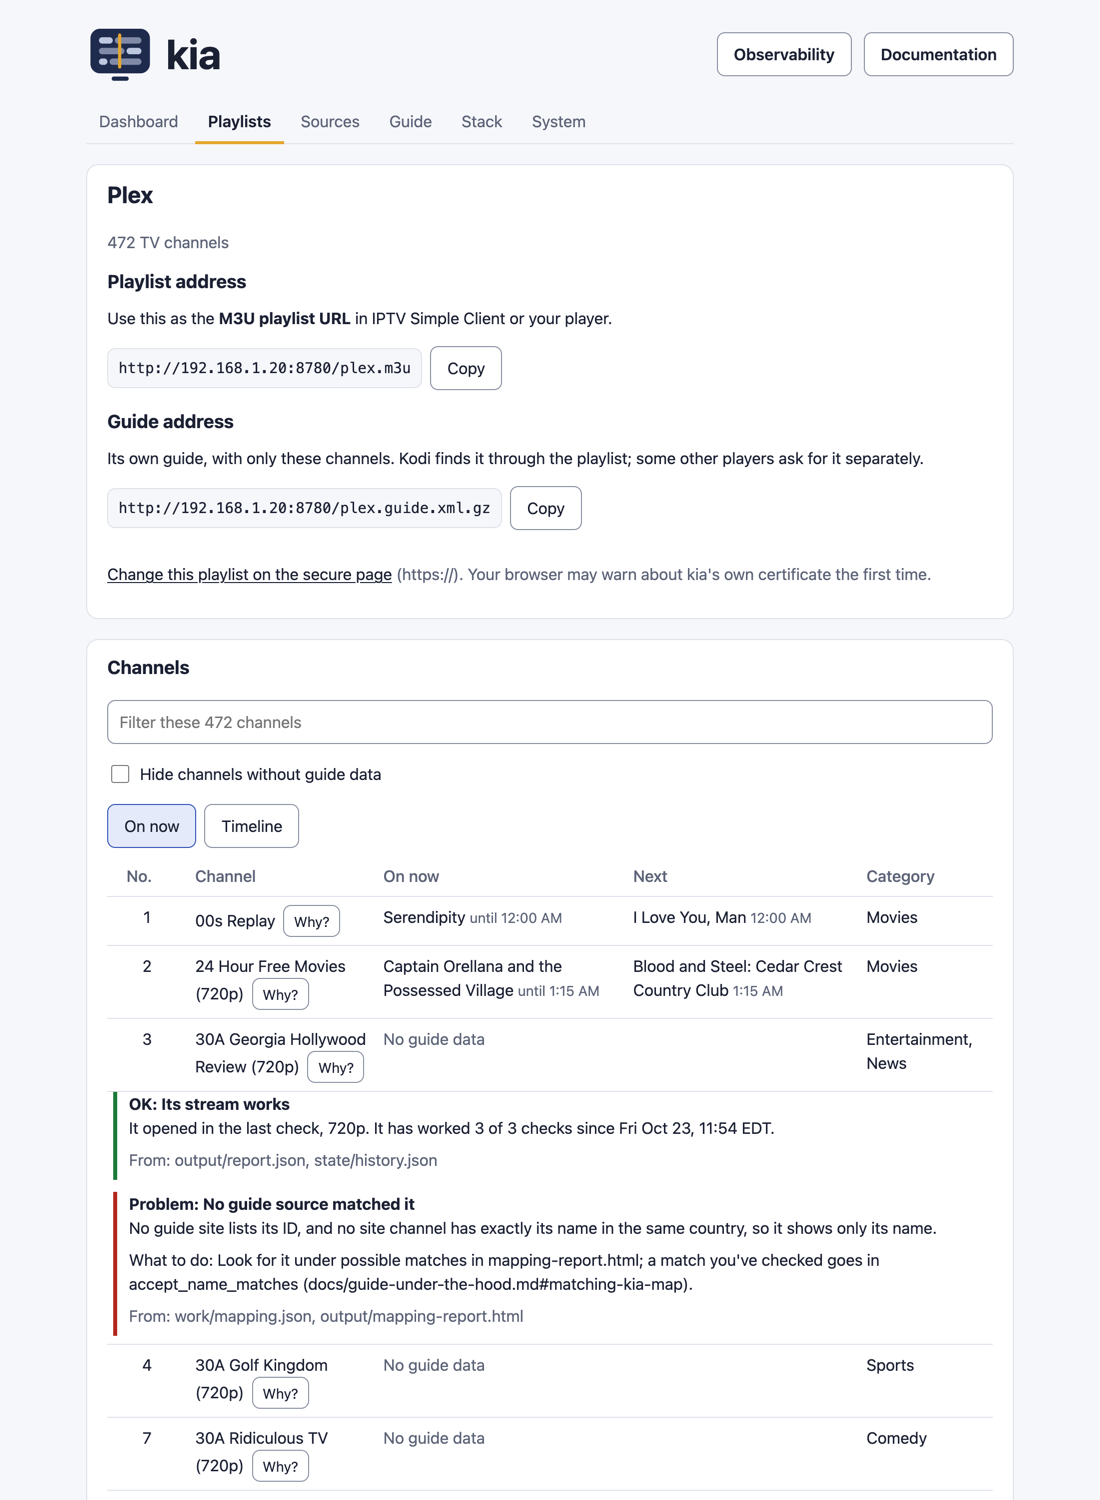
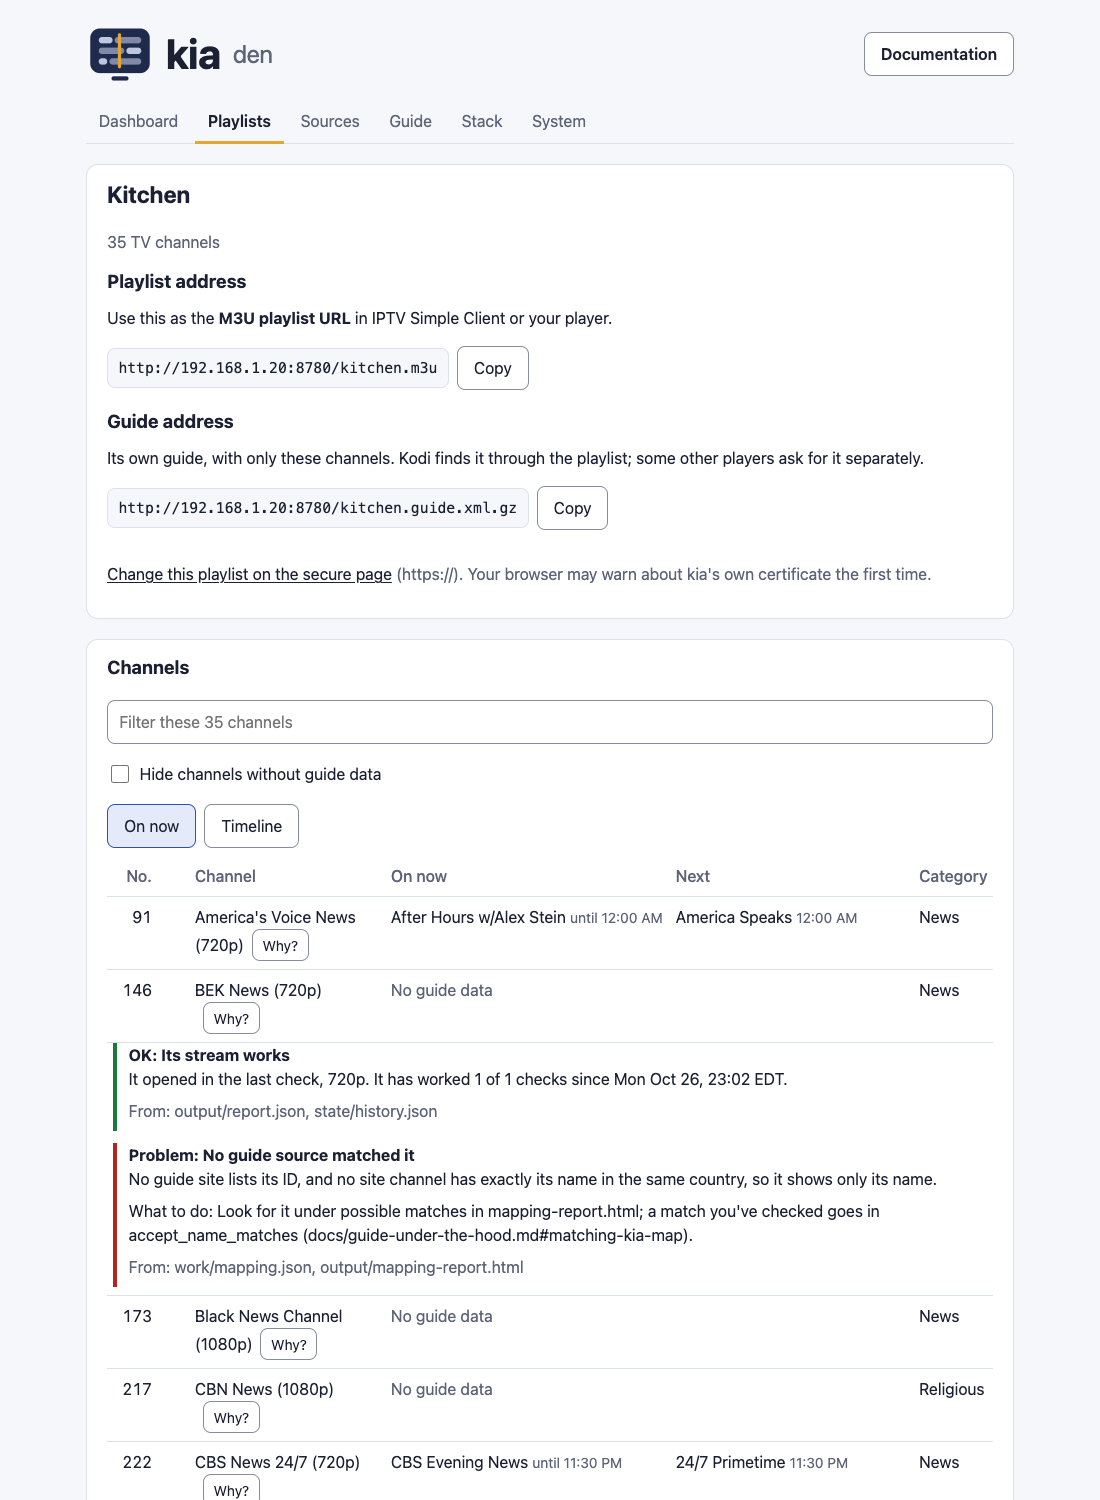
New Dashboard screenshots from a fresh 0.7.5 install (#219)
The three Dashboard screenshots the docs review flagged (G-5) were from
0.6.7. They had no kia name in the header, and the one in `install.md`
showed a Plex stack for what the page describes as a kodi-preset
install.

These new ones come from the 0.7.5 follow-the-docs test: a fresh Ubuntu
24.04 VM, installed only by following `docs/install.md` (the one-line
installer, kodi preset). For privacy, the address is the stand-in
`192.168.1.20`, the name is the docs' example `den`, and kia and the
browser are both on Eastern time. I viewed each image, and none has
metadata (IHDR, IDAT and IEND only).

The alt text now matches what each image shows, and `how-it-works.md`
says the Your stack card appears only once parts run next to kia.

What the test run found, following the docs on that VM:
- Docker's install script, then the installer, gave the output
`install.md` shows. The first refresh took 17 minutes: 1,103 of 1,485 US
channels work (strangers' streams now through the new guard), 586 with
guide data, no alerts. The log ended with "Next run at", as the docs
say.
- No channel in the guide has two programmes at the same start time; on
a big 0.7.3 install, that had been half the channels.
- `api.md`'s Kitchen example made the playlist. Right after an address
change, it needs the web server to pick up the new certificate first,
within a minute, as the docs say.
- `scripts/update.sh --main`, `kia backup`, `kia doctor` and
[…]

diff --git a/docs/how-it-works.md b/docs/how-it-works.md
@@ -80,7 +80,7 @@ The playlist uses the address in `KIA_PUBLIC_URL` for Pluto channels, so every d
 
 ## The Dashboard
 
-With Docker, `http://<your address>:8780/` starts with **Your stack**: a tile for each program running next to kia (Threadfin, Plex, Jellyfin, Prometheus, Grafana, and the exporters, whichever you [chose](stack.md)), green when it answers and red when it doesn't. kia checks each one every minute. A tile with a page of its own, such as Plex or Threadfin, opens it. kia has no access to Docker itself, so it can't tell a program that's starting from one that has stopped; `docker compose ps` in the kia folder can.
+With Docker and parts [chosen](stack.md) to run next to kia, `http://<your address>:8780/` has a **Your stack** card: a tile for each (Threadfin, Plex, Jellyfin, Prometheus, Grafana, and the exporters, whichever you chose), green when it answers and red when it doesn't. kia checks each one every minute. A tile with a page of its own, such as Plex or Threadfin, opens it. kia has no access to Docker itself, so it can't tell a program that's starting from one that has stopped; `docker compose ps` in the kia folder can.
 
 Until you've finished setting up, the page then has a **Getting started** checklist: the first refresh, the address other devices use, a player on each device, the password, your playlists, and alerts. kia ticks the steps it can check itself, you tick the rest, and you can hide it.
 
@@ -100,7 +100,7 @@ Every page has the same menu at the top, a **Documentation** button that opens t
 
 <img src="../images/kia-timeline-phone.png" width="300" alt="A playlist's Timeline on a phone: three hours from 11 PM, channel names down the side, a red line at the current time, and a tapped show's title and times under its channel">
 
-![kia's Dashboard: the menu, a banner saying everything's working, the answer to Ask kia what's wrong (the last refresh worked, and nothing needs you), the Your stack tiles for Threadfin, Plex, Grafana, and the exporters, the Getting started checklist, the channel counts, and three playlists, each with its address and a Copy button](../images/kia-status-screenshot.png)
+![kia's Dashboard, with this kia's name next to the logo: the menu, a banner saying everything's working, the answer to Ask kia what's wrong (the last refresh worked, and nothing needs you), the Getting started checklist, the channel counts, and three playlists, each with its address and a Copy button. With parts such as Plex in the stack, a Your stack card with a tile for each shows above the checklist](../images/kia-status-screenshot.png)
 
 The banner at the top shows the state of the last refresh:
 

diff --git a/docs/configuration.md b/docs/configuration.md
@@ -112,7 +112,7 @@ Docker on a Mac runs in a small Linux machine of its own, and reaches folders on
 
 The secure Dashboard's **Sources** page has a **Channel sources** card: the playlists kia reads channels from. It lists every one kia uses, plus every one `sources.txt` offers turned off, grouped like the file. To use one, tick it; to stop, untick it. **Add a channel source** takes the address of any M3U playlist on the internet. You need the password, the same one as for [profiles](profiles.md).
 
-![The secure Sources page: the Channel sources card with the password box and the Countries group open, USA ticked with 1,483 channels (1,173 working, 5 flaky, 305 dead at the last check), the other countries unticked, a Check now button on each, and the Languages, Categories, and Smaller lists groups closed below](../images/sources-page.png)
+![The secure Sources page: the Channel sources card with the password box and the Countries group open, USA ticked with 1,483 channels (1,103 working, 0 flaky, 382 dead at the last check), the other countries unticked, a Check now button on each, and the Languages, Categories, and Smaller lists groups closed below](../images/sources-page.png)
 
 **Check now** tests every stream in one source right away and shows how many work, with a few of the working channels' names. It takes from seconds to a few minutes, depending on the playlist's size, and changes nothing. **Stop** ends a check that's taking too long.
 

diff --git a/docs/install.md b/docs/install.md
@@ -143,7 +143,7 @@ The first time, this downloads and builds kia (a few minutes), then starts the f
 
 When the log says `Next run at ...`, it's done. Check it in a browser at `http://<your address>:8780/`. You should see kia's [Dashboard](how-it-works.md#the-dashboard), with the channel counts and your playlist's address. If another device will use kia, open that address on it too.
 
-![kia's Dashboard after the first refresh: the menu, a banner saying everything's working, the answer to Ask kia what's wrong, the Your stack tiles, the Getting started checklist, the channel counts, and the playlists, each with its address and a Copy button](../images/kia-status-screenshot.png)
+![kia's Dashboard after the first refresh, with this kia's name next to the logo: the menu, a banner saying everything's working, the answer to Ask kia what's wrong (the last refresh worked, and nothing needs you), the Getting started checklist with two of six steps done, the channel counts, and three playlists, each with its address and a Copy button](../images/kia-status-screenshot.png)
 
 kia also made a password for changing things on the Dashboard, such as [playlists for people and devices](profiles.md). It's in `state/admin-password.txt` in the kia folder; [the secure Dashboard](secure-page.md) explains it.
 
